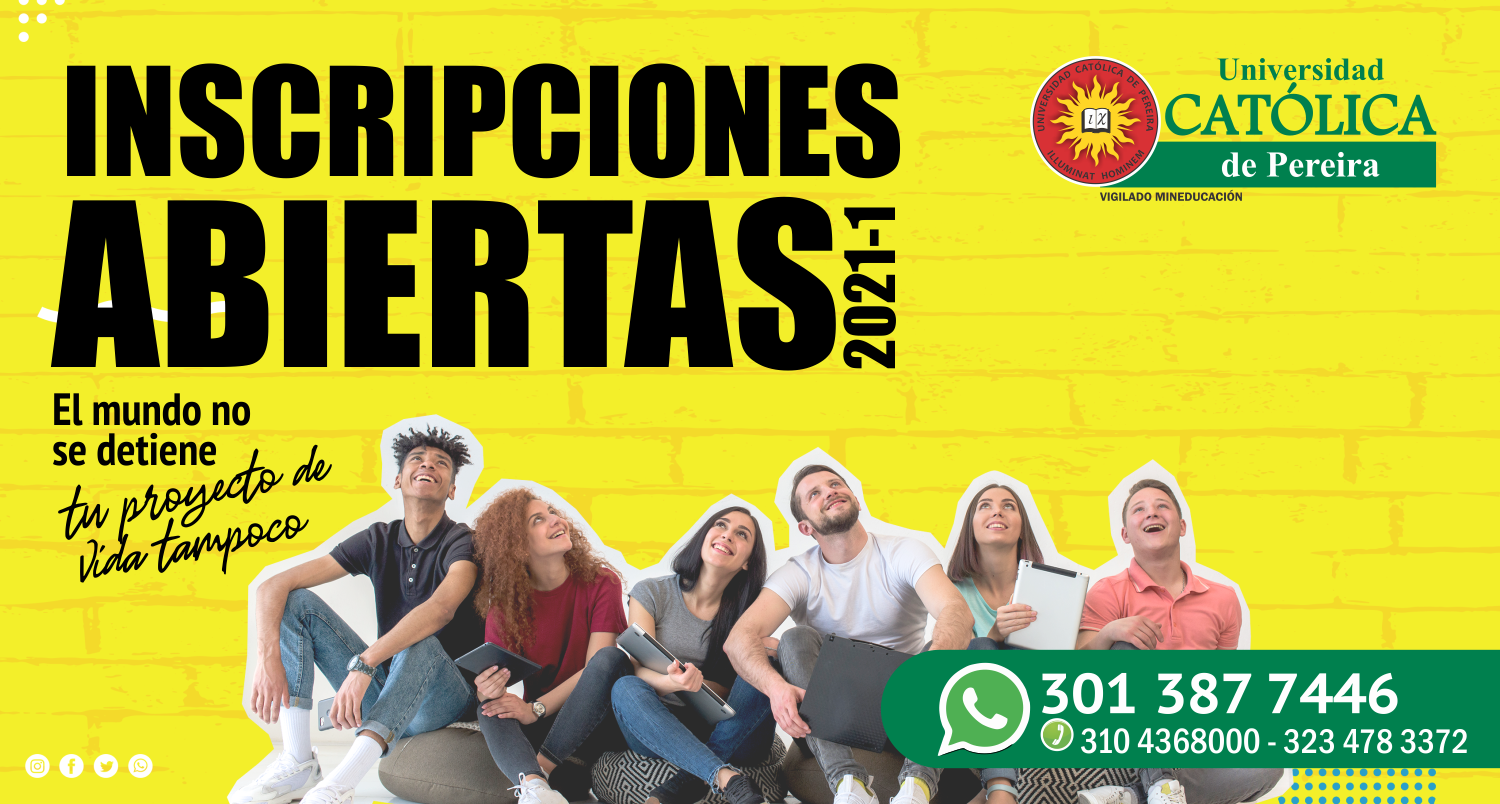
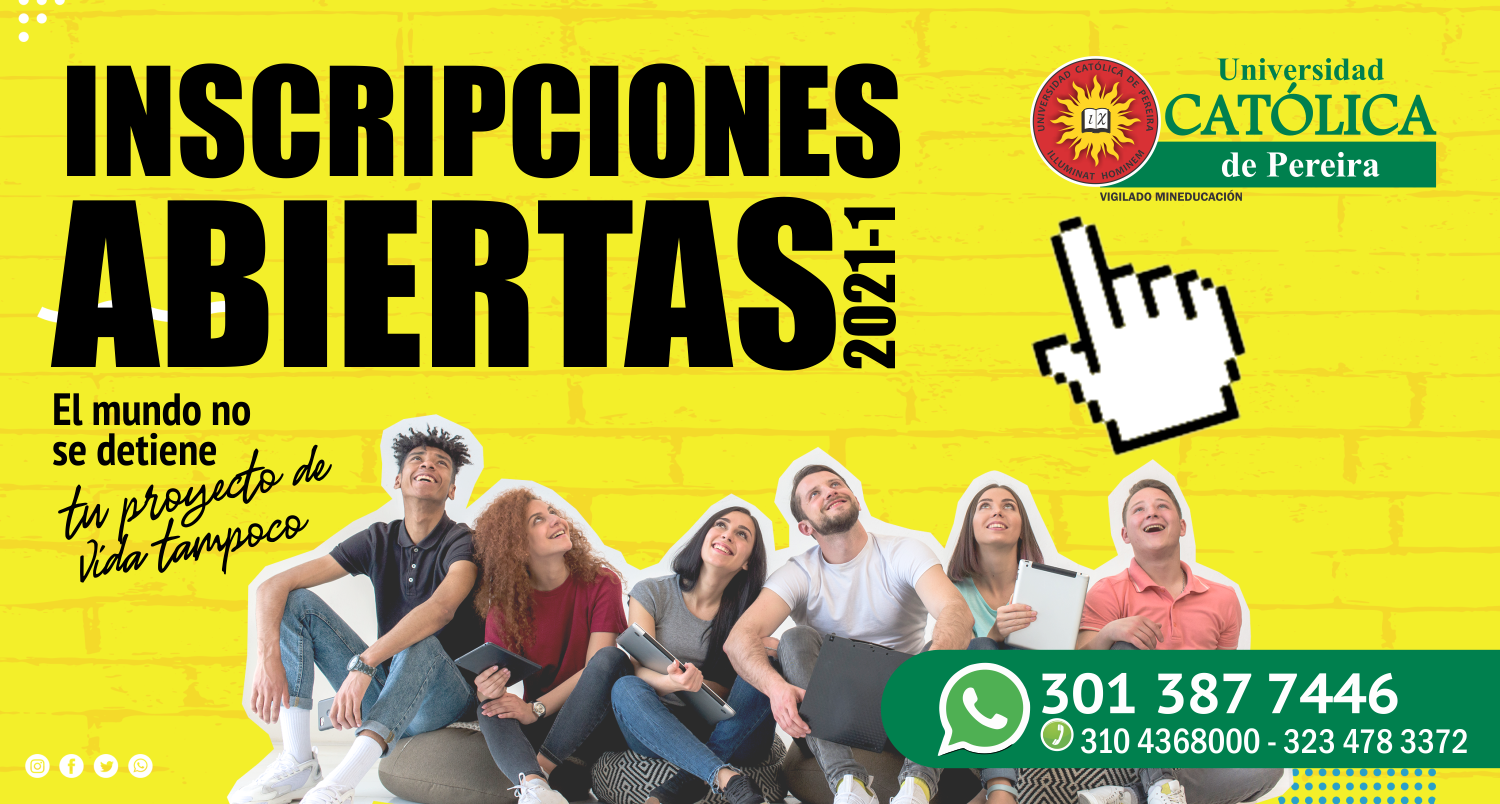
Se logra tener la idea ya con botones con redirect funcioanales

Changed region(s): [[0.6747, 0.2488, 0.828, 0.5597]]

diff --git a/src/app/pages/home/home.component.html b/src/app/pages/home/home.component.html
@@ -8,6 +8,8 @@
         <img id="verde" src="./assets/img/home/verdeucp.jpg" alt="Universidad Católica de Pereira">
         <img id="pse" src="./assets/img/home/pse.png" alt="Pagos enlínea"> -->
         <img id="pageucp" src="./assets/img/home/pageucp.png" alt="Pagos enlínea">
+        <img id="biblioteca" src="./assets/img/home/biblioteca.png" alt="Pagos enlínea">
+        <img id="dir-left" src="./assets/img/home/dir-left.png" alt="Pagos enlínea">
         <!-- recuadro -->
     <!-- <img id="city-thumb" crossorigin="anonymous" src="https://cdn.aframe.io/360-image-gallery-boilerplate/img/thumb-city.jpg"> -->
     <!-- recuadro -->
@@ -28,18 +30,14 @@
   <!-- <a-entity id="linklogo" template="src: #" layout="type: line; margin: 1.5" position="1 1 -5" data-thumb="#logoucp"></a-entity> -->
 
   
-  <a-image position="0 3.7 8" link="href: https://biblioteca.ucp.edu.co/; title: Nuestra biblioteca CDCH; color: aqua;" rotation="0 0 1">
+  <a-image position="2 2.1 11" src="#dir-left" width="3" height="1.5" navigate-on-click="url: https://biblioteca.ucp.edu.co/" rotation="0 180 -3">
+  </a-image>
+  <a-image position="0 4.8 10" rotation="0 180 -2" src="#biblioteca" width="4" height="2.4" navigate-on-click="url: https://biblioteca.ucp.edu.co/" >
   </a-image>
 
   <a-image position="8 5.4 2" link="href: https://www.pagosvirtualesavvillas.com.co/personal/pagos/8282; title: Pago de inscripciones; color: green;" rotation="1 95 3"></a-image>
   <!-- <a-image height="2" position="-2 .4 -9" link="href: feriados.html; title: visita: www.ucp.edu.co; color: red; repeat: 1 2;"></a-image> -->
   
-  <!-- <a-sphere position="1 1.21 -3" radius="1.25" src="#prueba"></a-sphere> -->
-  
-  
-
-<!-- <a-image position="1 1 -1" navigate-on-click="url: https:www.ucp.edu.co" height="2"  src="#logo" ></a-image> -->
-
 
 <!-- visit web -->
   <a-image position="4.2 4 -3" width="2" src="#pageucp" navigate-on-click="url: https:www.ucp.edu.co" rotation="0 -80 0"
@@ -55,7 +53,7 @@
   </a-image>
 
   <!-- banner -->
-  <a-image position="-3 1.9 -11" src="#banner" width="5" height="2.5" depth="6" navigate-on-click="url: https://matriculas.ucp.edu.co/se/inscriptions.aspx" rotation="-45 0 2"
+  <a-image position="3 1.9 -10" rotation="0 -50 1" src="#banner" width="8" height="3.5"  navigate-on-click="url: https://matriculas.ucp.edu.co/se/inscriptions.aspx" 
   event-set__enter="_event: mouseenter; color: #cococo"  
   event-set__leave="_event: mouseleave; color: #fff">  
    <!-- This animation begins when the sphere is clicked with the mouse. -->
@@ -67,8 +65,8 @@
    begin="mouseenter"></a-animation>
   </a-image>
 
-  
-
+  <!-- button to start visit stands  -->
+  <a [routerLink]="['/experiencia-unica']" title="entrar" class="link2 absoluto btn btn-warning px-3">Entrar</a>
 
   <!-- 360-degree image. -->
   <a-sky id="image-360" radius="80" src="#fondoucp"

diff --git a/src/index.html b/src/index.html
@@ -30,7 +30,7 @@
           var el = this.el;
     
           el.addEventListener('click', function () {
-            window.location.href = data.url;
+            window.open(data.url,'_blank');
           });
         }
       });        

diff --git a/src/styles.css b/src/styles.css
@@ -40,7 +40,7 @@ body { margin: 0; font-family: Roboto, "Helvetica Neue", sans-serif; }
 
 .fotosStand{
     width: 8%;
-    left:6 %;
+    left:6%;
     top: 30%;
     z-index: 5;
 }
